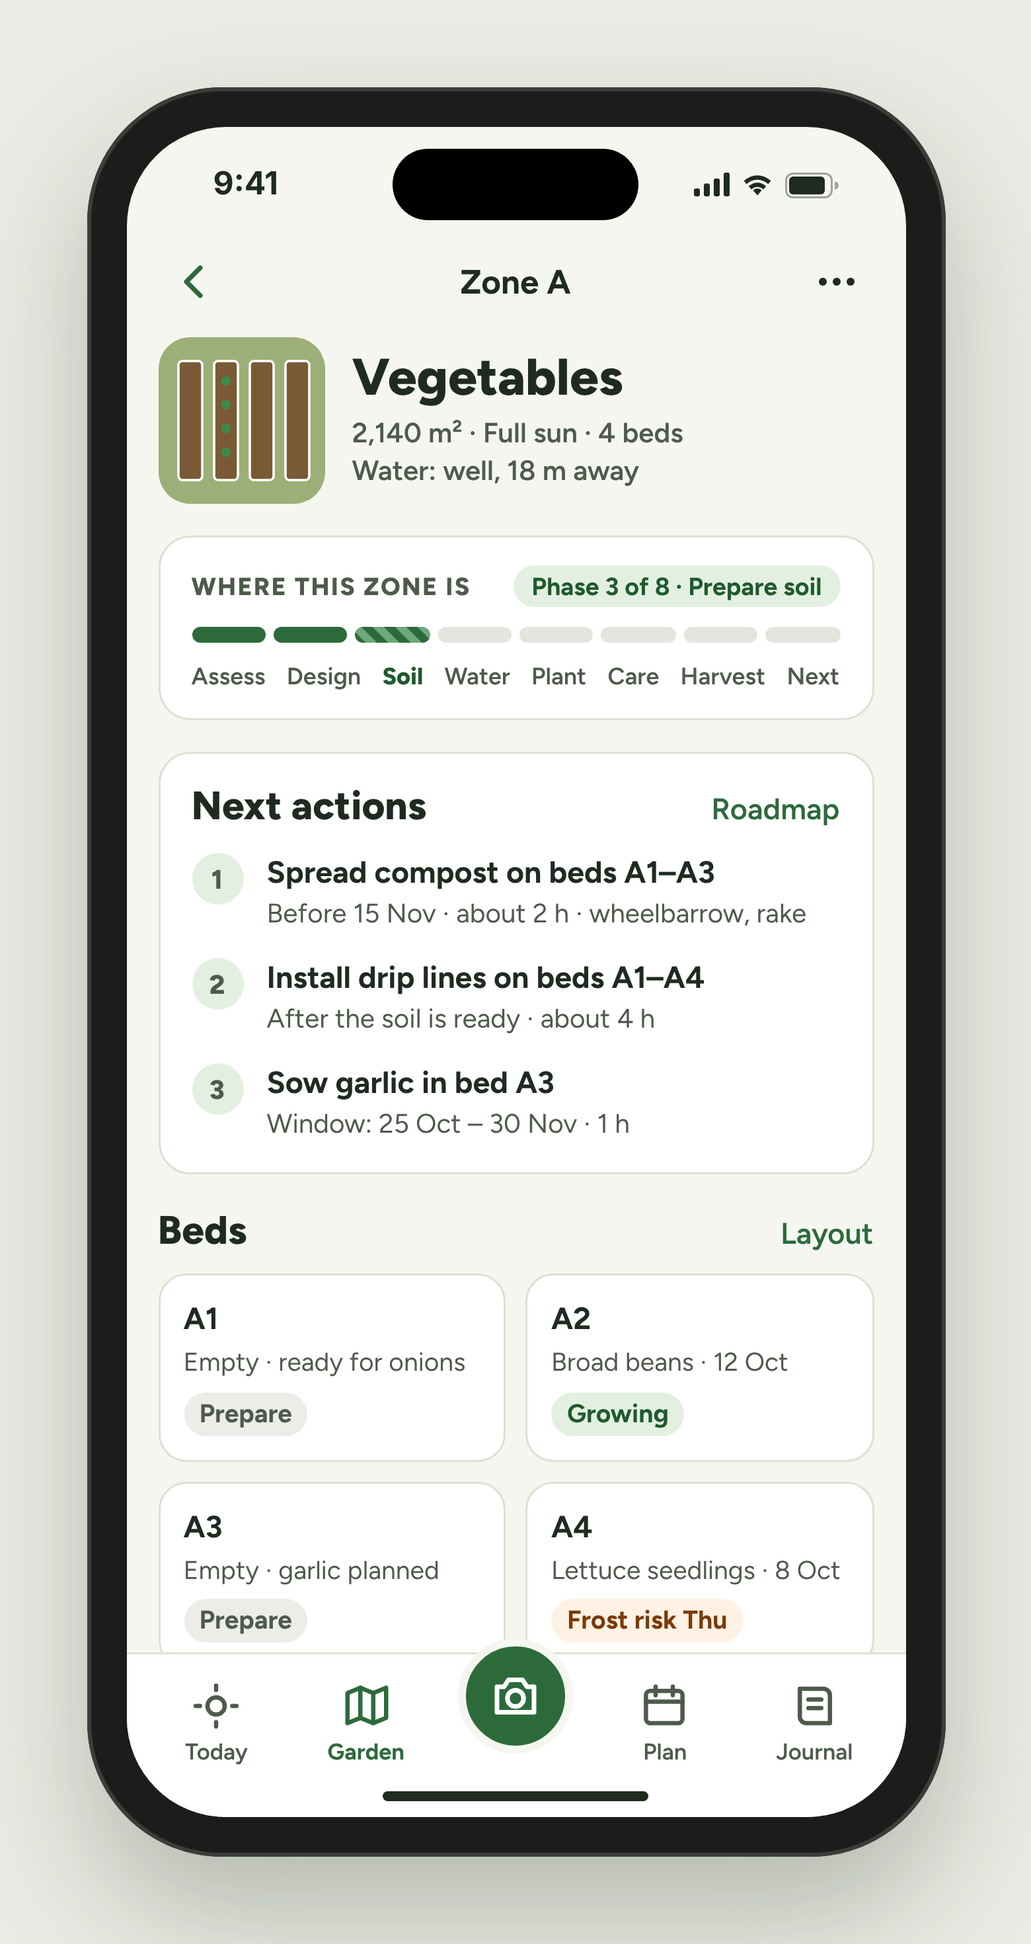
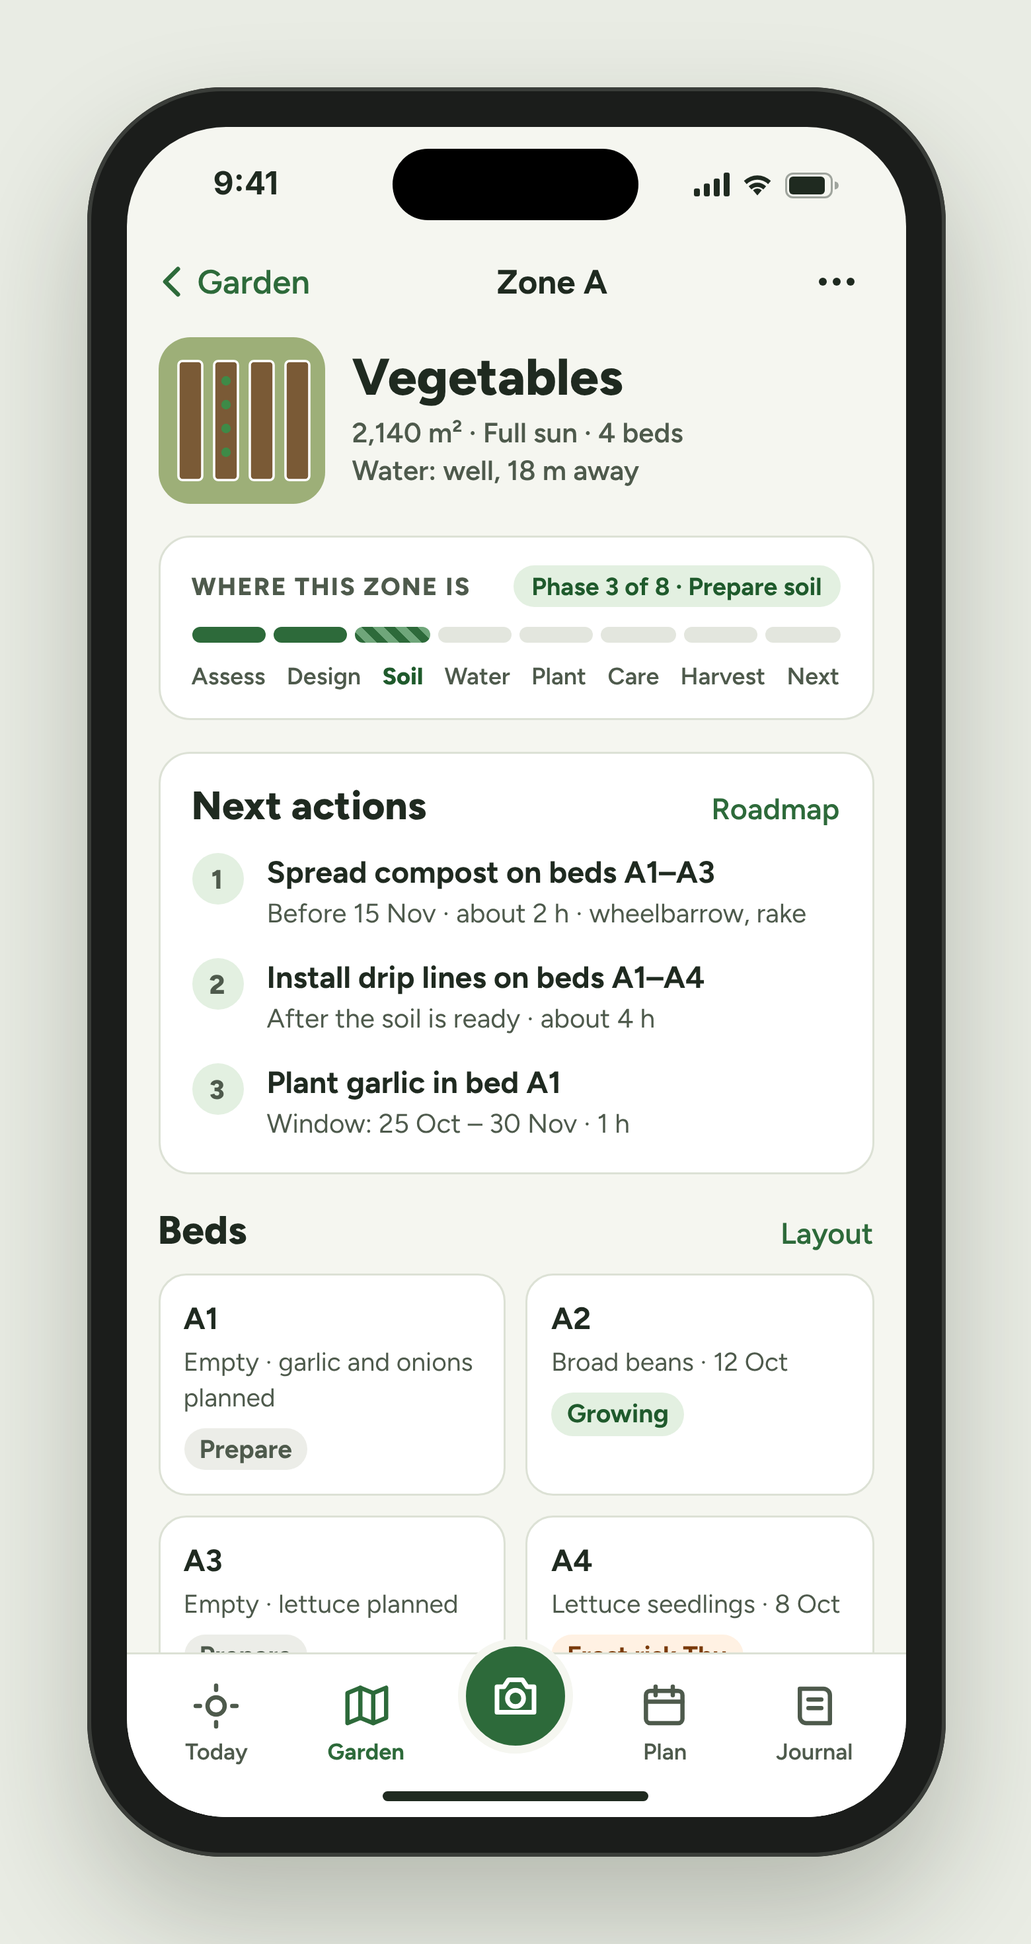
Design C2 zone detail: Garden back label, bed plan in line with other screens, recent history; B4 bed fixes
Claude-Session: https://claude.ai/code/session_015NynAjU4naPZwzmeuGazot

diff --git a/design/source/C2-zone-detail-full.html b/design/source/C2-zone-detail-full.html
@@ -1,0 +1,124 @@
+<!doctype html>
+<html lang="en">
+<head>
+<meta charset="utf-8">
+<title>C2 Zone detail</title>
+<link href="https://fonts.googleapis.com/css2?family=Figtree:wght@400;500;600;700;800&display=swap" rel="stylesheet">
+<link rel="stylesheet" href="frame.css">
+<style>
+  .navbar { position: relative; z-index: 20; height: 48px; padding: 0 12px; display: flex; align-items: center; justify-content: space-between; flex: none; }
+  .navbar .title { font-size: 17px; font-weight: 700; }
+  .navbtn { width: 44px; height: 44px; display: flex; align-items: center; justify-content: center; }
+  .content { flex: 1; overflow: hidden; padding: 4px 16px 0; display: flex; flex-direction: column; gap: 16px; }
+  .hero { display: flex; gap: 14px; align-items: center; }
+  .thumb { width: 84px; height: 84px; border-radius: 16px; overflow: hidden; flex: none; }
+  .hero h1 { margin: 0; font-size: 26px; font-weight: 800; line-height: 1.1; }
+  .hero .meta { font-size: 14px; color: var(--muted); font-weight: 600; margin-top: 4px; line-height: 1.4; }
+  .card { background: #fff; border: 1px solid var(--line); border-radius: 16px; padding: 14px 16px; display: flex; flex-direction: column; gap: 10px; }
+  .eyebrow { font-size: 12.5px; font-weight: 800; letter-spacing: .06em; text-transform: uppercase; color: var(--muted); }
+  .phases { display: grid; grid-template-columns: repeat(8, minmax(0, 1fr)); gap: 4px; }
+  .phases i { height: 8px; border-radius: 4px; background: #E3E6DE; display: block; }
+  .phases i.done { background: var(--green); }
+  .phases i.now { background: repeating-linear-gradient(45deg, #2D6A3A 0 4px, #6FA67A 4px 8px); }
+  .phaselabels { display: flex; justify-content: space-between; font-size: 12px; color: var(--muted); font-weight: 600; }
+  .pill { font-size: 12.5px; font-weight: 700; padding: 3px 9px; border-radius: 999px; background: var(--green-soft); color: var(--green-ink); }
+  h2 { margin: 0; font-size: 20px; font-weight: 800; }
+  .action { display: flex; gap: 12px; align-items: flex-start; padding: 2px 0; }
+  .num { width: 26px; height: 26px; border-radius: 999px; background: var(--green-soft); color: var(--green-ink); font-size: 13px; font-weight: 800; display: flex; align-items: center; justify-content: center; flex: none; }
+  .action b { font-size: 15.5px; display: block; line-height: 1.3; }
+  .action span { font-size: 13.5px; color: var(--muted); }
+  .beds { display: grid; grid-template-columns: repeat(2, minmax(0, 1fr)); gap: 10px; }
+  .bed { background: #fff; border: 1px solid var(--line); border-radius: 14px; padding: 12px; display: flex; flex-direction: column; gap: 4px; }
+  .bed b { font-size: 15.5px; }
+  .bed span { font-size: 13px; color: var(--muted); line-height: 1.35; }
+  .tag { align-self: flex-start; font-size: 12px; font-weight: 700; padding: 2px 8px; border-radius: 999px; margin-top: 2px; }
+  .sechead { display: flex; justify-content: space-between; align-items: baseline; }
+  .sechead a { font-size: 15px; font-weight: 600; color: var(--green); text-decoration: none; }
+  nav.tabs { position: absolute; left: 0; right: 0; bottom: 0; z-index: 40; background: #fff; border-top: 1px solid var(--line); padding: 8px 8px 26px; display: grid; grid-template-columns: repeat(5, minmax(0, 1fr)); align-items: end; }
+  nav.tabs a { text-decoration: none; color: var(--muted); display: flex; flex-direction: column; align-items: center; gap: 3px; font-size: 11.5px; font-weight: 600; min-height: 48px; justify-content: flex-end; }
+  nav.tabs a.on { color: var(--green); font-weight: 700; }
+  nav.tabs .cam { width: 58px; height: 58px; border-radius: 999px; background: var(--green); display: flex; align-items: center; justify-content: center; margin-top: -22px; border: 4px solid var(--bg); }
+</style>
+<style>.stage{height:1310px}.phone{height:1250px}.screen{height:1210px}</style>
+</head>
+<body>
+<div class="stage"><div class="phone"><div class="screen">
+  <div class="island"></div>
+  <div class="status">
+    <span>9:41</span>
+    <span class="icons">
+      <svg width="18" height="12" viewBox="0 0 18 12"><rect x="0" y="8" width="3" height="4" rx="1" fill="#1F2A20"/><rect x="5" y="5.5" width="3" height="6.5" rx="1" fill="#1F2A20"/><rect x="10" y="3" width="3" height="9" rx="1" fill="#1F2A20"/><rect x="15" y="0" width="3" height="12" rx="1" fill="#1F2A20"/></svg>
+      <svg width="16" height="12" viewBox="0 0 16 12"><path d="M8 11.5l2.2-2.6a3.2 3.2 0 0 0-4.4 0z" fill="#1F2A20"/><path d="M3.6 6.9a6.3 6.3 0 0 1 8.8 0l-1.4 1.6a4.2 4.2 0 0 0-6 0z" fill="#1F2A20"/><path d="M1.2 4.2a9.7 9.7 0 0 1 13.6 0l-1.4 1.6a7.6 7.6 0 0 0-10.8 0z" fill="#1F2A20"/></svg>
+      <svg width="27" height="13" viewBox="0 0 27 13"><rect x="0.5" y="0.5" width="23" height="12" rx="3.5" fill="none" stroke="#1F2A20" opacity=".4"/><rect x="2" y="2" width="18" height="9" rx="2" fill="#1F2A20"/><path d="M25 4.5v4a2 2 0 0 0 0-4z" fill="#1F2A20" opacity=".4"/></svg>
+    </span>
+  </div>
+
+  <div class="navbar">
+    <div class="navbtn" aria-label="Back to Garden" style="width: auto; gap: 2px; color: var(--green); font-size: 17px; font-weight: 600; justify-content: flex-start"><svg width="22" height="22" viewBox="0 0 24 24" fill="none" stroke="#2D6A3A" stroke-width="2.4" stroke-linecap="round" stroke-linejoin="round"><path d="M15 5l-7 7 7 7"/></svg>Garden</div>
+    <span class="title">Zone A</span>
+    <div class="navbtn" aria-label="More options"><svg width="24" height="24" viewBox="0 0 24 24" fill="#1F2A20"><circle cx="5" cy="12" r="2"/><circle cx="12" cy="12" r="2"/><circle cx="19" cy="12" r="2"/></svg></div>
+  </div>
+
+  <div class="content">
+    <div class="hero">
+      <div class="thumb">
+        <svg width="84" height="84" viewBox="0 0 84 84" aria-hidden="true"><rect width="84" height="84" fill="#9DAF78"/><g fill="#7A5A36" stroke="#fff" stroke-width="1.2"><rect x="10" y="12" width="12" height="60" rx="2"/><rect x="28" y="12" width="12" height="60" rx="2"/><rect x="46" y="12" width="12" height="60" rx="2"/><rect x="64" y="12" width="12" height="60" rx="2"/></g><g fill="#3E8A47"><circle cx="34" cy="22" r="2.4"/><circle cx="34" cy="34" r="2.4"/><circle cx="34" cy="46" r="2.4"/><circle cx="34" cy="58" r="2.4"/></g></svg>
+      </div>
+      <div>
+        <h1>Vegetables</h1>
+        <div class="meta">2,140 m² · Full sun · 4 beds<br>Water: well, 18 m away</div>
+      </div>
+    </div>
+
+    <div class="card">
+      <div style="display: flex; justify-content: space-between; align-items: center">
+        <span class="eyebrow">Where this zone is</span>
+        <span class="pill">Phase 3 of 8 · Prepare soil</span>
+      </div>
+      <div class="phases"><i class="done"></i><i class="done"></i><i class="now"></i><i></i><i></i><i></i><i></i><i></i></div>
+      <div class="phaselabels"><span>Assess</span><span>Design</span><span style="color: var(--green-ink); font-weight: 800">Soil</span><span>Water</span><span>Plant</span><span>Care</span><span>Harvest</span><span>Next</span></div>
+    </div>
+
+    <div class="card">
+      <div class="sechead"><h2>Next actions</h2><a>Roadmap</a></div>
+      <div class="action"><span class="num">1</span><div><b>Spread compost on beds A1–A3</b><span>Before 15 Nov · about 2 h · wheelbarrow, rake</span></div></div>
+      <div class="action"><span class="num">2</span><div><b>Install drip lines on beds A1–A4</b><span>After the soil is ready · about 4 h</span></div></div>
+      <div class="action"><span class="num">3</span><div><b>Plant garlic in bed A1</b><span>Window: 25 Oct – 30 Nov · 1 h</span></div></div>
+    </div>
+
+    <div>
+      <div class="sechead" style="margin-bottom: 10px"><h2>Beds</h2><a>Layout</a></div>
+      <div class="beds">
+        <div class="bed"><b>A1</b><span>Empty · garlic and onions planned</span><span class="tag" style="background:#ECEDE8; color:#4E5A4C">Prepare</span></div>
+        <div class="bed"><b>A2</b><span>Broad beans · 12 Oct</span><span class="tag" style="background:var(--green-soft); color:var(--green-ink)">Growing</span></div>
+        <div class="bed"><b>A3</b><span>Empty · lettuce planned</span><span class="tag" style="background:#ECEDE8; color:#4E5A4C">Prepare</span></div>
+        <div class="bed"><b>A4</b><span>Lettuce seedlings · 8 Oct</span><span class="tag" style="background:#FFF1E3; color:#7A3A08">Frost risk Thu</span></div>
+      </div>
+    </div>
+
+    <div class="card">
+      <div class="sechead"><h2>Site assessment</h2><a>Re-assess</a></div>
+      <span style="font-size: 14.5px; line-height: 1.45">Cleared 2 Oct. A few stones left near the gate; no problem plants found.</span>
+    </div>
+    <div class="card">
+      <div class="sechead"><h2>Recent history</h2><a>Journal</a></div>
+      <div style="display: flex; flex-direction: column; gap: 10px; font-size: 14.5px">
+        <div style="display: flex; gap: 12px"><span style="width: 52px; color: var(--muted); font-weight: 700">12 Oct</span><span>Sowed broad beans in bed A2</span></div>
+        <div style="display: flex; gap: 12px"><span style="width: 52px; color: var(--muted); font-weight: 700">8 Oct</span><span>Planted lettuce seedlings in bed A4</span></div>
+        <div style="display: flex; gap: 12px"><span style="width: 52px; color: var(--muted); font-weight: 700">5 Oct</span><span>Built beds A1–A4</span></div>
+        <div style="display: flex; gap: 12px"><span style="width: 52px; color: var(--muted); font-weight: 700">2 Oct</span><span>Finished clearing the zone</span></div>
+      </div>
+    </div>
+  </div>
+
+  <nav class="tabs" aria-label="Main">
+    <a><svg width="26" height="26" viewBox="0 0 24 24" fill="none" stroke="currentColor" stroke-width="2" stroke-linecap="round" stroke-linejoin="round"><circle cx="12" cy="12" r="4"/><path d="M12 2.5v2M12 19.5v2M2.5 12h2M19.5 12h2"/></svg>Today</a>
+    <a class="on" aria-current="page"><svg width="26" height="26" viewBox="0 0 24 24" fill="none" stroke="currentColor" stroke-width="2" stroke-linecap="round" stroke-linejoin="round"><path d="M3 6l6-2.5 6 2.5 6-2.5v14l-6 2.5-6-2.5-6 2.5z"/><path d="M9 3.5v14M15 6v14"/></svg>Garden</a>
+    <a aria-label="Snap and Ask" style="justify-content: center"><span class="cam"><svg width="28" height="28" viewBox="0 0 24 24" fill="none" stroke="#fff" stroke-width="2" stroke-linecap="round" stroke-linejoin="round"><path d="M4 8h3l2-3h6l2 3h3v11H4z"/><circle cx="12" cy="13" r="3.5"/></svg></span></a>
+    <a><svg width="26" height="26" viewBox="0 0 24 24" fill="none" stroke="currentColor" stroke-width="2" stroke-linecap="round" stroke-linejoin="round"><rect x="3.5" y="5" width="17" height="15" rx="2"/><path d="M3.5 10h17M8 3v4M16 3v4"/></svg>Plan</a>
+    <a><svg width="26" height="26" viewBox="0 0 24 24" fill="none" stroke="currentColor" stroke-width="2" stroke-linecap="round" stroke-linejoin="round"><path d="M5 4h11a3 3 0 0 1 3 3v13H8a3 3 0 0 1-3-3z"/><path d="M9 9h6M9 13h6"/></svg>Journal</a>
+  </nav>
+  <div class="home"></div>
+</div></div></div>
+</body>
+</html>

diff --git a/design/source/C2-zone-detail.html b/design/source/C2-zone-detail.html
@@ -53,7 +53,7 @@
   </div>
 
   <div class="navbar">
-    <div class="navbtn" aria-label="Back"><svg width="24" height="24" viewBox="0 0 24 24" fill="none" stroke="#2D6A3A" stroke-width="2.4" stroke-linecap="round" stroke-linejoin="round"><path d="M15 5l-7 7 7 7"/></svg></div>
+    <div class="navbtn" aria-label="Back to Garden" style="width: auto; gap: 2px; color: var(--green); font-size: 17px; font-weight: 600; justify-content: flex-start"><svg width="22" height="22" viewBox="0 0 24 24" fill="none" stroke="#2D6A3A" stroke-width="2.4" stroke-linecap="round" stroke-linejoin="round"><path d="M15 5l-7 7 7 7"/></svg>Garden</div>
     <span class="title">Zone A</span>
     <div class="navbtn" aria-label="More options"><svg width="24" height="24" viewBox="0 0 24 24" fill="#1F2A20"><circle cx="5" cy="12" r="2"/><circle cx="12" cy="12" r="2"/><circle cx="19" cy="12" r="2"/></svg></div>
   </div>
@@ -82,15 +82,15 @@
       <div class="sechead"><h2>Next actions</h2><a>Roadmap</a></div>
       <div class="action"><span class="num">1</span><div><b>Spread compost on beds A1–A3</b><span>Before 15 Nov · about 2 h · wheelbarrow, rake</span></div></div>
       <div class="action"><span class="num">2</span><div><b>Install drip lines on beds A1–A4</b><span>After the soil is ready · about 4 h</span></div></div>
-      <div class="action"><span class="num">3</span><div><b>Sow garlic in bed A3</b><span>Window: 25 Oct – 30 Nov · 1 h</span></div></div>
+      <div class="action"><span class="num">3</span><div><b>Plant garlic in bed A1</b><span>Window: 25 Oct – 30 Nov · 1 h</span></div></div>
     </div>
 
     <div>
       <div class="sechead" style="margin-bottom: 10px"><h2>Beds</h2><a>Layout</a></div>
       <div class="beds">
-        <div class="bed"><b>A1</b><span>Empty · ready for onions</span><span class="tag" style="background:#ECEDE8; color:#4E5A4C">Prepare</span></div>
+        <div class="bed"><b>A1</b><span>Empty · garlic and onions planned</span><span class="tag" style="background:#ECEDE8; color:#4E5A4C">Prepare</span></div>
         <div class="bed"><b>A2</b><span>Broad beans · 12 Oct</span><span class="tag" style="background:var(--green-soft); color:var(--green-ink)">Growing</span></div>
-        <div class="bed"><b>A3</b><span>Empty · garlic planned</span><span class="tag" style="background:#ECEDE8; color:#4E5A4C">Prepare</span></div>
+        <div class="bed"><b>A3</b><span>Empty · lettuce planned</span><span class="tag" style="background:#ECEDE8; color:#4E5A4C">Prepare</span></div>
         <div class="bed"><b>A4</b><span>Lettuce seedlings · 8 Oct</span><span class="tag" style="background:#FFF1E3; color:#7A3A08">Frost risk Thu</span></div>
       </div>
     </div>
@@ -98,6 +98,15 @@
     <div class="card">
       <div class="sechead"><h2>Site assessment</h2><a>Re-assess</a></div>
       <span style="font-size: 14.5px; line-height: 1.45">Cleared 2 Oct. A few stones left near the gate; no problem plants found.</span>
+    </div>
+    <div class="card">
+      <div class="sechead"><h2>Recent history</h2><a>Journal</a></div>
+      <div style="display: flex; flex-direction: column; gap: 10px; font-size: 14.5px">
+        <div style="display: flex; gap: 12px"><span style="width: 52px; color: var(--muted); font-weight: 700">12 Oct</span><span>Sowed broad beans in bed A2</span></div>
+        <div style="display: flex; gap: 12px"><span style="width: 52px; color: var(--muted); font-weight: 700">8 Oct</span><span>Planted lettuce seedlings in bed A4</span></div>
+        <div style="display: flex; gap: 12px"><span style="width: 52px; color: var(--muted); font-weight: 700">5 Oct</span><span>Built beds A1–A4</span></div>
+        <div style="display: flex; gap: 12px"><span style="width: 52px; color: var(--muted); font-weight: 700">2 Oct</span><span>Finished clearing the zone</span></div>
+      </div>
     </div>
   </div>
 

diff --git a/design/source/B4-plan-your-week-full.html b/design/source/B4-plan-your-week-full.html
@@ -87,11 +87,11 @@
     <div class="dl">Monday 26</div>
     <div class="card">
       <div class="item"><span class="ck"><svg width="13" height="13" viewBox="0 0 24 24" fill="none" stroke="#fff" stroke-width="3.5" stroke-linecap="round" stroke-linejoin="round"><path d="M5 12l5 5 9-10"/></svg></span><div class="it"><b>Sow lettuce in bed A3</b><span class="m"><span class="zc za">Zone A</span>30 min</span><span class="why">Moved here after Thursday’s frost.</span></div></div>
-      <div class="item"><span class="ck"><svg width="13" height="13" viewBox="0 0 24 24" fill="none" stroke="#fff" stroke-width="3.5" stroke-linecap="round" stroke-linejoin="round"><path d="M5 12l5 5 9-10"/></svg></span><div class="it"><b>Check the cabbages for caterpillars</b><span class="m"><span class="zc za">Zone A</span>10 min · weekly check</span></div></div>
+      <div class="item"><span class="ck"><svg width="13" height="13" viewBox="0 0 24 24" fill="none" stroke="#fff" stroke-width="3.5" stroke-linecap="round" stroke-linejoin="round"><path d="M5 12l5 5 9-10"/></svg></span><div class="it"><b>Check the lettuce in bed A4 for slugs</b><span class="m"><span class="zc za">Zone A</span>10 min · weekly check</span></div></div>
     </div>
     <div class="dl">Wednesday 28</div>
     <div class="card">
-      <div class="item"><span class="ck"><svg width="13" height="13" viewBox="0 0 24 24" fill="none" stroke="#fff" stroke-width="3.5" stroke-linecap="round" stroke-linejoin="round"><path d="M5 12l5 5 9-10"/></svg></span><div class="it"><b>Sow peas in bed A1</b><span class="m"><span class="zc za">Zone A</span>45 min</span><span class="why">Short job, fits a weekday evening.</span></div></div>
+      <div class="item"><span class="ck"><svg width="13" height="13" viewBox="0 0 24 24" fill="none" stroke="#fff" stroke-width="3.5" stroke-linecap="round" stroke-linejoin="round"><path d="M5 12l5 5 9-10"/></svg></span><div class="it"><b>Sow peas in bed A2</b><span class="m"><span class="zc za">Zone A</span>45 min</span><span class="why">Short job, fits a weekday evening.</span></div></div>
     </div>
     <div class="dl">Saturday 31</div>
     <div class="card">
@@ -100,7 +100,7 @@
     <div class="dl">Sunday 1</div>
     <div class="card">
       <div class="item"><span class="ck"><svg width="13" height="13" viewBox="0 0 24 24" fill="none" stroke="#fff" stroke-width="3.5" stroke-linecap="round" stroke-linejoin="round"><path d="M5 12l5 5 9-10"/></svg></span><div class="it"><b>Lay mulch on the paths</b><span class="m"><span class="zc za">Zone A</span>1 h 30</span></div></div>
-      <div class="item"><span class="ck"><svg width="13" height="13" viewBox="0 0 24 24" fill="none" stroke="#fff" stroke-width="3.5" stroke-linecap="round" stroke-linejoin="round"><path d="M5 12l5 5 9-10"/></svg></span><div class="it"><b>Plant onion seedlings in bed A4</b><span class="m"><span class="zc za">Zone A</span>40 min</span></div></div>
+      <div class="item"><span class="ck"><svg width="13" height="13" viewBox="0 0 24 24" fill="none" stroke="#fff" stroke-width="3.5" stroke-linecap="round" stroke-linejoin="round"><path d="M5 12l5 5 9-10"/></svg></span><div class="it"><b>Plant onion seedlings in bed A1</b><span class="m"><span class="zc za">Zone A</span>40 min</span></div></div>
     </div>
 
     <div class="card cal">

diff --git a/design/source/B4-plan-your-week.html b/design/source/B4-plan-your-week.html
@@ -86,11 +86,11 @@
     <div class="dl">Monday 26</div>
     <div class="card">
       <div class="item"><span class="ck"><svg width="13" height="13" viewBox="0 0 24 24" fill="none" stroke="#fff" stroke-width="3.5" stroke-linecap="round" stroke-linejoin="round"><path d="M5 12l5 5 9-10"/></svg></span><div class="it"><b>Sow lettuce in bed A3</b><span class="m"><span class="zc za">Zone A</span>30 min</span><span class="why">Moved here after Thursday’s frost.</span></div></div>
-      <div class="item"><span class="ck"><svg width="13" height="13" viewBox="0 0 24 24" fill="none" stroke="#fff" stroke-width="3.5" stroke-linecap="round" stroke-linejoin="round"><path d="M5 12l5 5 9-10"/></svg></span><div class="it"><b>Check the cabbages for caterpillars</b><span class="m"><span class="zc za">Zone A</span>10 min · weekly check</span></div></div>
+      <div class="item"><span class="ck"><svg width="13" height="13" viewBox="0 0 24 24" fill="none" stroke="#fff" stroke-width="3.5" stroke-linecap="round" stroke-linejoin="round"><path d="M5 12l5 5 9-10"/></svg></span><div class="it"><b>Check the lettuce in bed A4 for slugs</b><span class="m"><span class="zc za">Zone A</span>10 min · weekly check</span></div></div>
     </div>
     <div class="dl">Wednesday 28</div>
     <div class="card">
-      <div class="item"><span class="ck"><svg width="13" height="13" viewBox="0 0 24 24" fill="none" stroke="#fff" stroke-width="3.5" stroke-linecap="round" stroke-linejoin="round"><path d="M5 12l5 5 9-10"/></svg></span><div class="it"><b>Sow peas in bed A1</b><span class="m"><span class="zc za">Zone A</span>45 min</span><span class="why">Short job, fits a weekday evening.</span></div></div>
+      <div class="item"><span class="ck"><svg width="13" height="13" viewBox="0 0 24 24" fill="none" stroke="#fff" stroke-width="3.5" stroke-linecap="round" stroke-linejoin="round"><path d="M5 12l5 5 9-10"/></svg></span><div class="it"><b>Sow peas in bed A2</b><span class="m"><span class="zc za">Zone A</span>45 min</span><span class="why">Short job, fits a weekday evening.</span></div></div>
     </div>
     <div class="dl">Saturday 31</div>
     <div class="card">
@@ -99,7 +99,7 @@
     <div class="dl">Sunday 1</div>
     <div class="card">
       <div class="item"><span class="ck"><svg width="13" height="13" viewBox="0 0 24 24" fill="none" stroke="#fff" stroke-width="3.5" stroke-linecap="round" stroke-linejoin="round"><path d="M5 12l5 5 9-10"/></svg></span><div class="it"><b>Lay mulch on the paths</b><span class="m"><span class="zc za">Zone A</span>1 h 30</span></div></div>
-      <div class="item"><span class="ck"><svg width="13" height="13" viewBox="0 0 24 24" fill="none" stroke="#fff" stroke-width="3.5" stroke-linecap="round" stroke-linejoin="round"><path d="M5 12l5 5 9-10"/></svg></span><div class="it"><b>Plant onion seedlings in bed A4</b><span class="m"><span class="zc za">Zone A</span>40 min</span></div></div>
+      <div class="item"><span class="ck"><svg width="13" height="13" viewBox="0 0 24 24" fill="none" stroke="#fff" stroke-width="3.5" stroke-linecap="round" stroke-linejoin="round"><path d="M5 12l5 5 9-10"/></svg></span><div class="it"><b>Plant onion seedlings in bed A1</b><span class="m"><span class="zc za">Zone A</span>40 min</span></div></div>
     </div>
 
     <div class="card cal">
